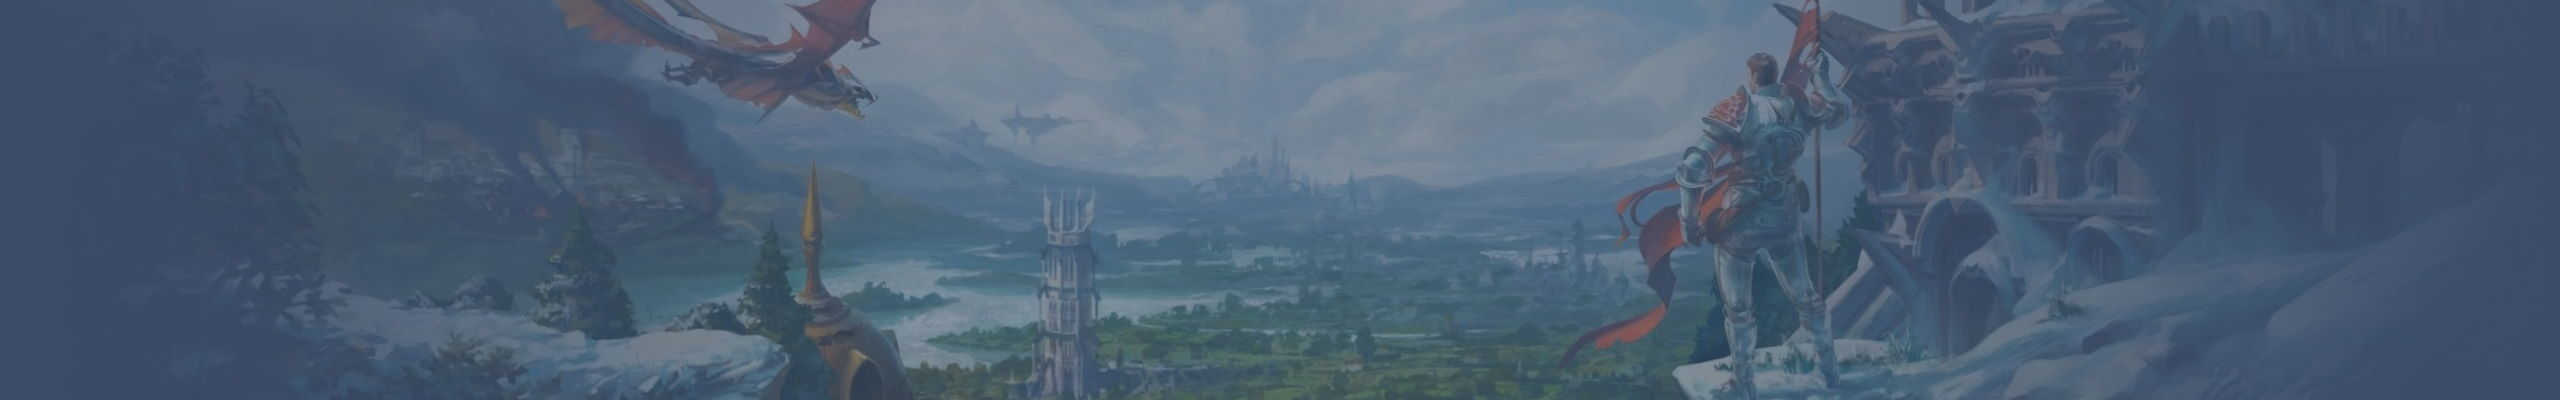
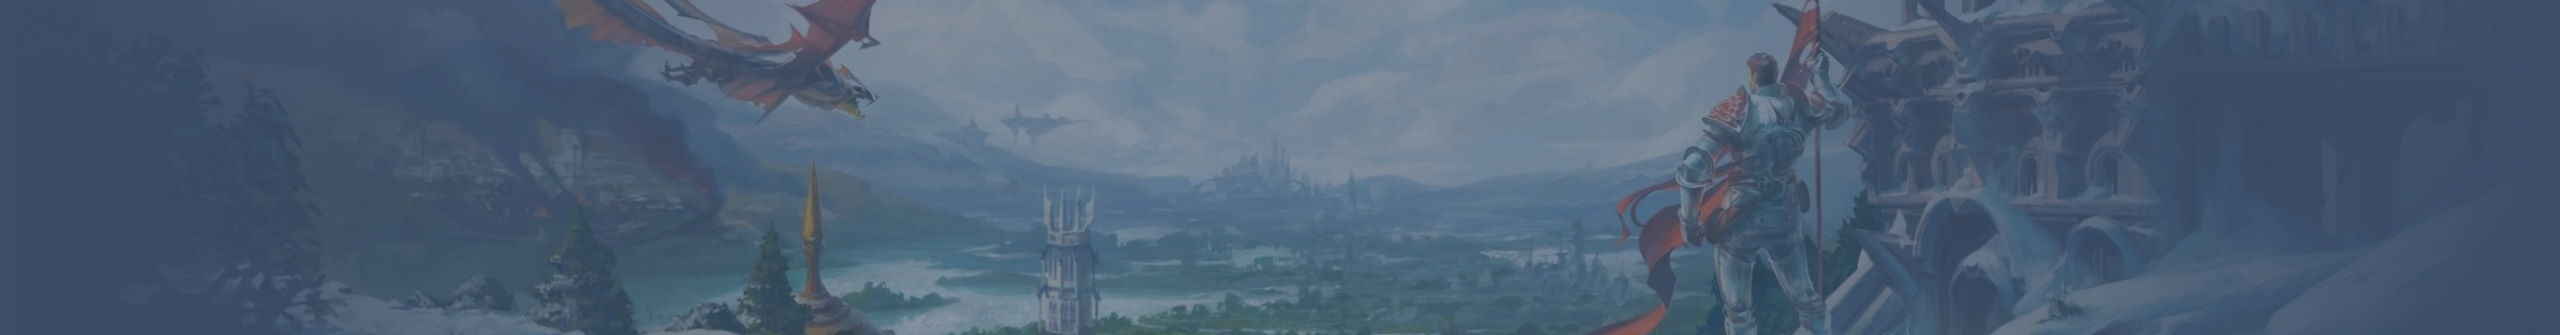
just tryin somethin :punch:

diff --git a/public/css/custom.css b/public/css/custom.css
@@ -4,7 +4,7 @@
 @font-face { font-family: "OpenSans-Regular"; src: url('../fonts/OpenSans-Regular.ttf'); font-display: swap; }
 
 body {
-    background-color: var(--body-bg) !important;
+    background: var(--body-bg) !important;
     color: var(--font-color) !important;
     font-family: "OpenSans-Regular" !important;
 }
@@ -13,9 +13,11 @@ body {
 .navbar-dark .navbar-nav .nav-link {
     color: var(--nav-link-color) !important;
 }
+
 .navbar-dark .navbar-nav .nav-link:focus, .navbar-dark .navbar-nav .nav-link:hover {
     color: var(--nav-link-hover-color) !important;
 }
+
 .custom-header {
     background: var(--header-bg);
 }

diff --git a/public/css/themes/light.css b/public/css/themes/light.css
@@ -1,7 +1,7 @@
 
 :root {
     /** Body */
-    --body-bg: #f3f3f3;
+    --body-bg: url('../img/header.jpg') top center no-repeat #f3f3f3;
     --font-color: #7c7c7c;
     --header-bg: url('../img/header.jpg') top center no-repeat #3c4d69;
 

diff --git a/public/css/themes/dark.css b/public/css/themes/dark.css
@@ -1,7 +1,7 @@
 
 :root {
     /** Body */
-    --body-bg: #222;
+    --body-bg: url('../img/header.jpg') top center no-repeat #222;
     --font-color: #7c7c7c;
     --header-bg: url('../img/header.jpg') top center no-repeat #3c4d69;
 
